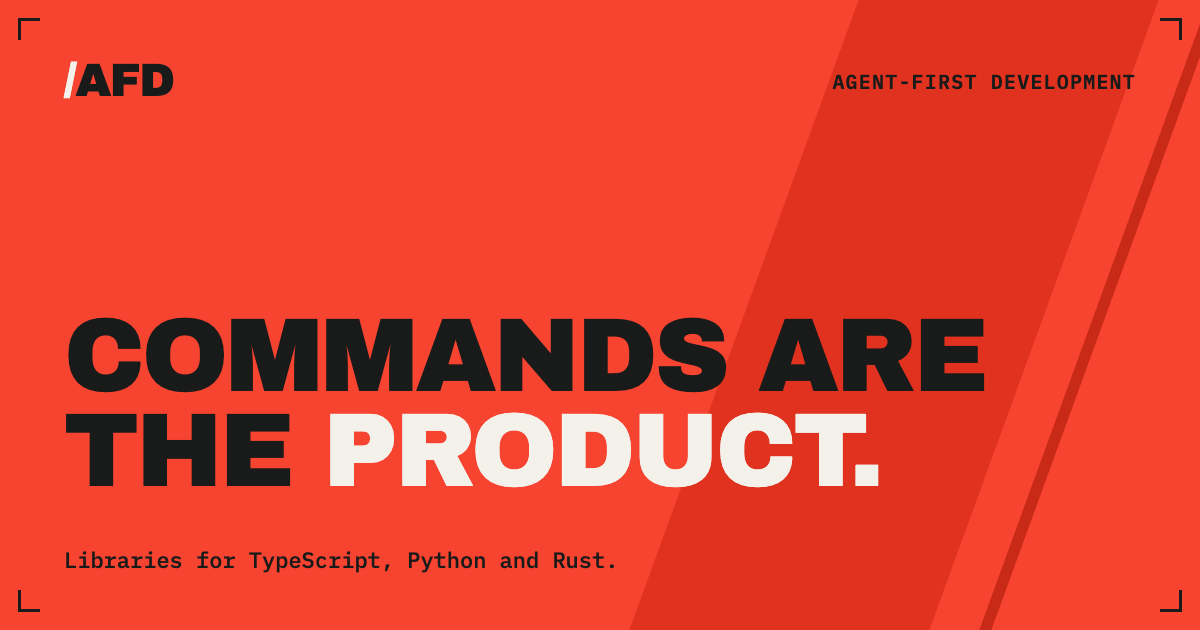
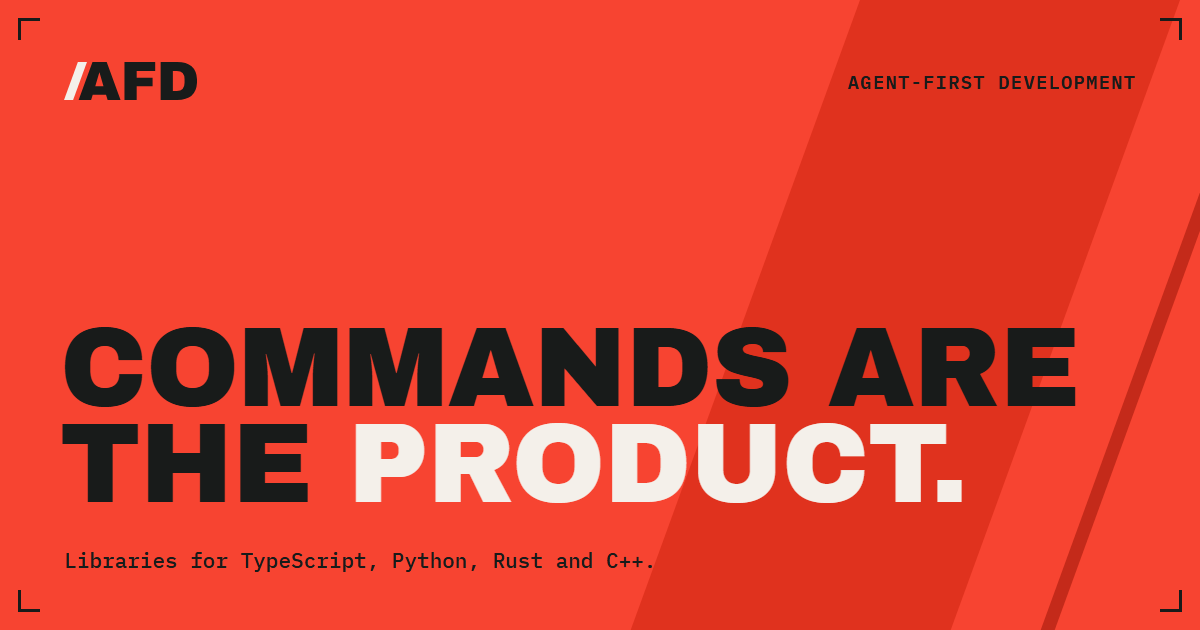
feat(site): redraw the social preview image with its generator
site/og.png had the old wordmark, slashes at another angle and three
languages. scripts/build-site-og.mjs draws it in Chromium from the site's
tokens and wordmark SVG: the /AFD wordmark, 20 degree slashes, and
TypeScript, Python, Rust and C++.

Assisted-by: Claude Code

Changed region(s): [[0.0308, 0.0302, 1.0, 1.0], [0.0617, 0.8746, 0.5242, 0.9048], [0.0308, 0.0905, 0.185, 0.181]]

diff --git a/.claude/skills/afd-site-design/SKILL.md b/.claude/skills/afd-site-design/SKILL.md
@@ -50,7 +50,7 @@ all of them unless a line says which.
 | `site/js/<tool>-runtime.js` | A tool's commands in the page, over a bundle in `site/js/vendor/`, or its recorded run. |
 | `site/<tool>/` beside the page | What the tool wrote for the page, unedited: Specimen's `captures/` and `pack/`, Umbel's and Botcore's `runs.json`, FAST-AF's `library.json`. |
 | `site/js/widows.js`, `statements.js` | No one-word last lines; statements that light up. Every page imports both. |
-| `scripts/build-site-*.mjs` | Build a vendor bundle (Violet, FAST-AF), the captures and the pack (Specimen), or a recorded run (Umbel, Botcore). |
+| `scripts/build-site-*.mjs` | Build a vendor bundle (Violet, FAST-AF), the captures and the pack (Specimen), a recorded run (Umbel, Botcore), or the social preview image (`og`, `site/og.png`). |
 | `site/styleguide.html` | Living style guide. Reads tokens and draws samples from the real CSS, so it can't drift. |
 
 Stylesheet order on a tool's page: `tokens-m2`, `manifesto-2`, `manifesto-3`, `area`,
